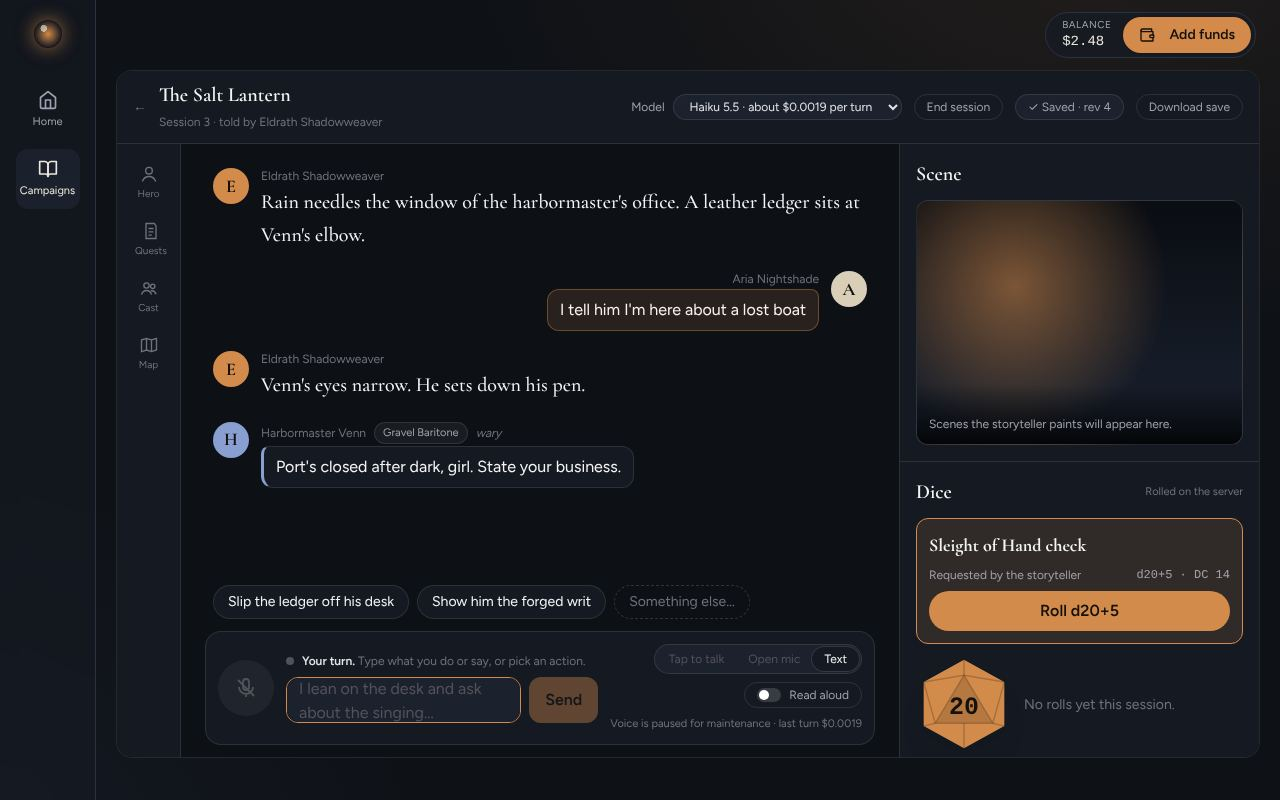
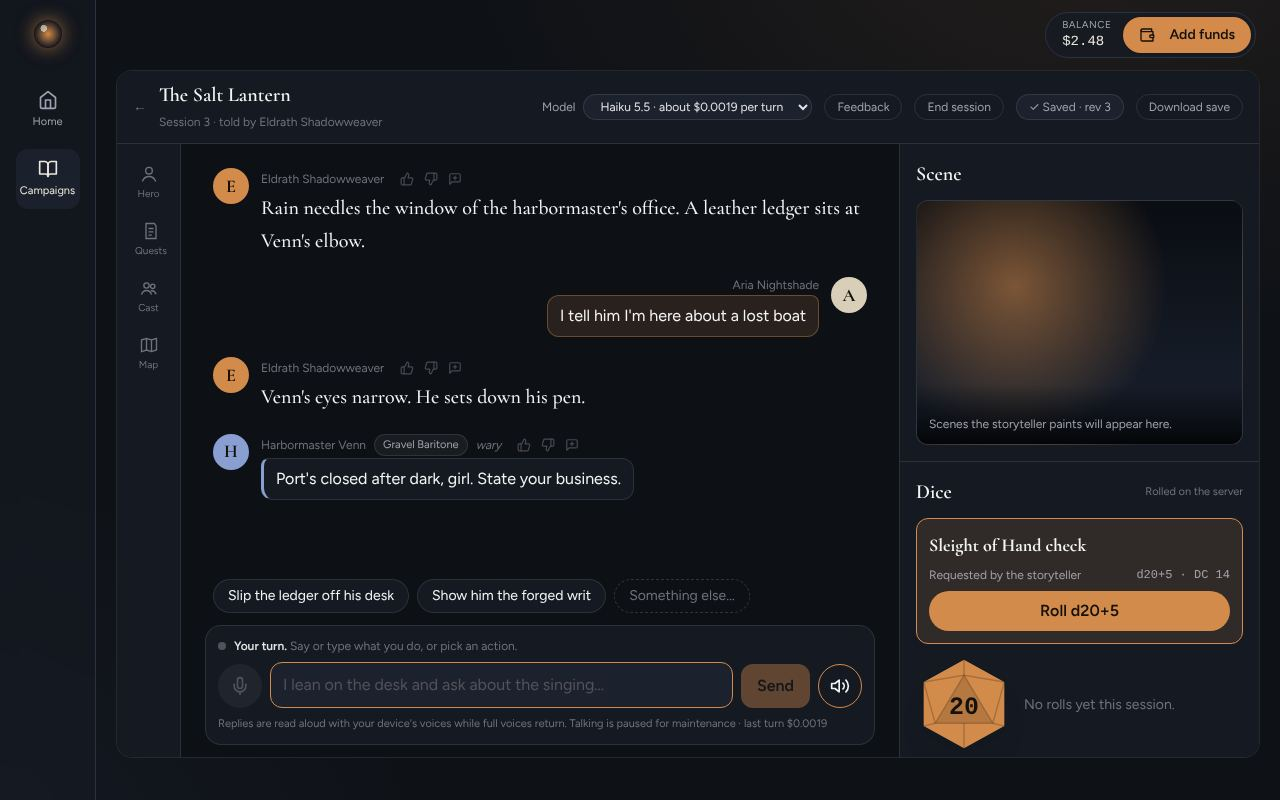
Make play voice and text together, with audio on by default
Play is no longer split into modes:
- The play screen's input is one row: mic (paused for maintenance), text
  box, Send, and a speaker button. The "Tap to talk / Open mic / Text"
  mode picker is gone.
- Replies are always on screen and spoken aloud; audio is on by default
  and the speaker button mutes it (remembered per device).
- Wording updated on the landing page (feature card and FAQ), campaigns
  banner, storyteller picker, welcome tutorial (new play screenshot),
  README and both plans: voice and text together, audio can be muted,
  talking is paused for maintenance.

Claude-Session: https://claude.ai/code/session_01ADN39KUPgbLwj1GbD4BLBY

diff --git a/components/story/StoryTable.tsx b/components/story/StoryTable.tsx
@@ -1,6 +1,6 @@
 "use client";
 
-import { MessageSquarePlus, ThumbsDown, ThumbsUp } from "lucide-react";
+import { MessageSquarePlus, Mic, ThumbsDown, ThumbsUp, Volume2, VolumeX } from "lucide-react";
 import Link from "next/link";
 import { useQueryClient } from "@tanstack/react-query";
 import { useEffect, useRef, useState, type FormEvent } from "react";
@@ -170,88 +170,78 @@ function InputPanel({ state, send, readAloud }: { state: StoryState; send: (i: T
   const speakerName =
     state.speaker === "narrator" ? st.name : state.save!.npcs.find((n) => n.id === state.speaker)?.name ?? state.speaker;
   return (
-    <section aria-label="Your turn" className="mx-3 mb-3 grid grid-cols-[auto_1fr] items-center gap-3 rounded-2xl border border-white/10 bg-[#151a22] p-3 sm:mx-6 md:grid-cols-[auto_1fr_auto]">
-      <button
-        type="button"
-        disabled
-        title="Voice play is paused for maintenance"
-        aria-label="Microphone (paused for maintenance)"
-        className="grid h-14 w-14 place-items-center rounded-full bg-white/5 text-zinc-600"
-      >
-        <svg viewBox="0 0 24 24" className="h-6 w-6" fill="none" stroke="currentColor" strokeWidth="1.8" aria-hidden="true">
-          <rect x="9" y="3" width="6" height="11" rx="3" />
-          <path d="M5 11a7 7 0 0 0 14 0M12 18v3M4 4l16 16" />
-        </svg>
-      </button>
-      <div className="flex min-w-0 flex-col gap-2">
-        <p className="flex items-center gap-2 text-xs text-zinc-500">
-          <span className={`h-2 w-2 rounded-full ${state.speaker ? "bg-[color:var(--accent)] shadow-[0_0_8px_var(--accent)]" : "bg-zinc-600"}`} />
-          {state.speaker ? (
-            <span>
-              <b className="font-semibold text-zinc-200">{speakerName}</b> is speaking
-            </span>
-          ) : state.busy ? (
-            "The storyteller is working on it…"
-          ) : (
-            <span>
-              <b className="font-semibold text-zinc-200">Your turn.</b> Type what you do or say, or pick an action.
-            </span>
-          )}
-        </p>
-        <form onSubmit={submit} className="flex gap-2">
-          <label htmlFor="turn-input" className="sr-only">What do you do?</label>
-          <textarea
-            id="turn-input"
-            rows={1}
-            value={text}
-            maxLength={2000}
-            onChange={(e) => setText(e.target.value)}
-            onKeyDown={(e) => {
-              if (e.key === "Enter" && !e.shiftKey) {
-                e.preventDefault();
-                submit();
-              }
-            }}
-            placeholder="I lean on the desk and ask about the singing…"
-            className="min-h-[44px] flex-1 resize-none rounded-xl border border-white/10 bg-[#1c222d] px-3 py-2.5 text-zinc-100 placeholder:text-zinc-600 focus:border-[color:var(--accent)] focus:outline-none"
-          />
-          <button
-            type="submit"
-            disabled={state.busy || !text.trim()}
-            className="rounded-xl bg-[color:var(--accent)] px-4 font-semibold text-[#14100b] transition hover:brightness-110 disabled:opacity-40"
-          >
-            Send
-          </button>
-        </form>
-      </div>
-      <div className="col-span-2 flex flex-wrap items-center justify-between gap-2 md:col-span-1 md:flex-col md:items-end">
-        <div className="inline-flex rounded-full border border-white/10 bg-[#1c222d] p-0.5 text-xs" role="group" aria-label="Input mode">
-          <button type="button" disabled className="rounded-full px-3 py-1 text-zinc-600" title="Paused for maintenance">Tap to talk</button>
-          <button type="button" disabled className="rounded-full px-3 py-1 text-zinc-600" title="Paused for maintenance">Open mic</button>
-          <button type="button" aria-pressed="true" className="rounded-full bg-[#151a22] px-3 py-1 text-zinc-100 ring-1 ring-white/10">Text</button>
-        </div>
+    <section aria-label="Your turn" className="mx-3 mb-3 flex flex-col gap-2 rounded-2xl border border-white/10 bg-[#151a22] p-3 sm:mx-6">
+      <p className="flex items-center gap-2 text-xs text-zinc-500">
+        <span className={`h-2 w-2 rounded-full ${state.speaker || readAloud.speaking ? "bg-[color:var(--accent)] shadow-[0_0_8px_var(--accent)]" : "bg-zinc-600"}`} />
+        {state.speaker ? (
+          <span>
+            <b className="font-semibold text-zinc-200">{speakerName}</b> is speaking
+          </span>
+        ) : state.busy ? (
+          "The storyteller is working on it…"
+        ) : (
+          <span>
+            <b className="font-semibold text-zinc-200">Your turn.</b> Say or type what you do, or pick an action.
+          </span>
+        )}
+      </p>
+      <form onSubmit={submit} className="flex items-end gap-2">
+        {/* Voice and text work together; talking is paused while the voice service is in maintenance. */}
+        <button
+          type="button"
+          disabled
+          title="Talking to your storyteller is paused for maintenance. Type for now."
+          aria-label="Talk (paused for maintenance)"
+          className="grid h-11 w-11 shrink-0 place-items-center rounded-full bg-white/5 text-zinc-600"
+        >
+          <Mic className="h-5 w-5" aria-hidden="true" />
+        </button>
+        <label htmlFor="turn-input" className="sr-only">What do you do?</label>
+        <textarea
+          id="turn-input"
+          rows={1}
+          value={text}
+          maxLength={2000}
+          onChange={(e) => setText(e.target.value)}
+          onKeyDown={(e) => {
+            if (e.key === "Enter" && !e.shiftKey) {
+              e.preventDefault();
+              submit();
+            }
+          }}
+          placeholder="I lean on the desk and ask about the singing…"
+          className="min-h-[44px] min-w-0 flex-1 resize-none rounded-xl border border-white/10 bg-[#1c222d] px-3 py-2.5 text-zinc-100 placeholder:text-zinc-600 focus:border-[color:var(--accent)] focus:outline-none"
+        />
+        <button
+          type="submit"
+          disabled={state.busy || !text.trim()}
+          className="h-11 shrink-0 rounded-xl bg-[color:var(--accent)] px-4 font-semibold text-[#14100b] transition hover:brightness-110 disabled:opacity-40"
+        >
+          Send
+        </button>
         {readAloud.supported && (
           <button
             type="button"
-            role="switch"
-            aria-checked={readAloud.enabled}
+            aria-pressed={readAloud.enabled}
             onClick={readAloud.toggle}
-            title="Read replies aloud with your device's built-in voices"
-            className={`inline-flex items-center gap-2 rounded-full border px-3 py-1 text-xs transition ${
-              readAloud.enabled ? "border-[color:var(--accent)] text-zinc-100" : "border-white/10 text-zinc-400 hover:text-zinc-200"
+            aria-label={readAloud.enabled ? "Mute the storyteller's voice" : "Unmute the storyteller's voice"}
+            title={readAloud.enabled ? "Audio on: tap to mute" : "Audio off: tap to hear replies"}
+            className={`grid h-11 w-11 shrink-0 place-items-center rounded-full border transition ${
+              readAloud.enabled ? "border-[color:var(--accent)] text-zinc-100" : "border-white/10 text-zinc-500 hover:text-zinc-200"
             }`}
           >
-            <span className={`relative h-3.5 w-6 rounded-full transition ${readAloud.enabled ? "bg-[color:var(--accent)]" : "bg-white/15"}`} aria-hidden="true">
-              <span className={`absolute top-0.5 h-2.5 w-2.5 rounded-full bg-white transition-all ${readAloud.enabled ? "left-3" : "left-0.5"}`} />
-            </span>
-            Read aloud{readAloud.speaking ? " · speaking" : ""}
+            {readAloud.enabled ? <Volume2 className="h-5 w-5" aria-hidden="true" /> : <VolumeX className="h-5 w-5" aria-hidden="true" />}
           </button>
         )}
-        <span className="text-[11px] text-zinc-500">
-          {readAloud.enabled ? "Device voices · full voice play is paused for maintenance" : "Voice is paused for maintenance"} ·{" "}
-          {state.lastTurnCostMicros !== null ? `last turn ${formatUsd(state.lastTurnCostMicros)}` : perTurn(state.save!.modelId)}
-        </span>
-      </div>
+      </form>
+      <p className="text-[11px] text-zinc-500">
+        {!readAloud.supported
+          ? "This browser can't play voices; you'll see every reply as text."
+          : readAloud.enabled
+            ? "Replies are read aloud with your device's voices while full voices return."
+            : "Audio is off. Replies appear as text only."}{" "}
+        Talking is paused for maintenance · {state.lastTurnCostMicros !== null ? `last turn ${formatUsd(state.lastTurnCostMicros)}` : perTurn(state.save!.modelId)}
+      </p>
     </section>
   );
 }

diff --git a/app/(landing)/page.tsx b/app/(landing)/page.tsx
@@ -90,7 +90,7 @@ const FEATURES = [
   { icon: Dices, title: "Fair dice", body: "Rolls happen on our servers, not in your browser or the AI's imagination, and the storyteller narrates from the real result." },
   { icon: BookOpen, title: "Any setting", body: "Dark fantasy, fairy tale, cozy tavern or tactical war story. Rules are compatible with fifth edition, from the open SRD." },
   { icon: Languages, title: "In your language", body: "Play in English, Español, 日本語 and many more. Just start talking in the language you want." },
-  { icon: Mic, title: "Voice play returns soon", body: "Talk to your storyteller and hear every character in their own voice. Voice is paused while we move to our new storyteller; text play works today." },
+  { icon: Mic, title: "Voice and text together", body: "Talk or type, read along or listen. Every reply appears on screen and is spoken aloud, and you can mute audio anytime. Talking to your storyteller and full character voices are returning after maintenance; replies use your device's voices meanwhile." },
 ];
 
 export default function LandingPage() {
@@ -232,7 +232,7 @@ export default function LandingPage() {
               {[
                 ["Is this Dungeons & Dragons?", "Dreampool isn't affiliated with Wizards of the Coast. Its rules are compatible with fifth edition, based on the openly licensed SRD, and it works with any setting you like."],
                 ["Can I play with friends?", "Not yet. Dreampool is built for one player at a time today. Playing together is on our roadmap."],
-                ["Can I talk instead of type?", "Voice play is paused for maintenance while we move to our new storyteller. Text play works now, and voice will return with a distinct voice for every character."],
+                ["Do I talk or type?", "Both. Play is voice and text together: every reply is on screen and read aloud, and you can mute audio whenever you like. Talking to your storyteller is paused for maintenance right now, so type for the moment; replies are read aloud with your device's voices until full character voices return."],
                 ["What happens to my story?", "It's saved as you play: your character, quests, the people you've met and a journal entry for every session. You can download your save file and import it again later."],
                 ["How much does it cost?", `Each turn is charged at what it costs us to run plus ${Math.round(MARKUP * 100)}%. On the default model that's a fraction of a cent. You start with ${formatUsd(SIGNUP_CREDIT_MICROS)} free and add funds from $${MIN_TOPUP_CENTS / 100} when you need more.`],
               ].map(([q, a]) => (

diff --git a/components/story/useReadAloud.ts b/components/story/useReadAloud.ts
@@ -10,8 +10,9 @@ import { UtteranceSegmenter } from "@/lib/voice/segmenter";
 const STORAGE_KEY = "dreampool.readAloud";
 
 /**
- * Reads the storyteller's replies aloud with the device's voices while the
- * real voice pipeline is paused. Feed it streamed table events via `onEvent`;
+ * The audio half of play: reads the storyteller's replies aloud with the
+ * device's voices while the real voice pipeline is paused. On by default;
+ * the player can mute it (remembered per device). Feed it streamed table events via `onEvent`;
  * call `stop()` when the player acts (they've moved on).
  */
 export function useReadAloud() {
@@ -29,12 +30,13 @@ export function useReadAloud() {
     speakerRef.current = new BrowserSpeaker({ lang: "en", onSpeaking: setSpeaking });
     // Some browsers load their voice list asynchronously.
     window.speechSynthesis.getVoices();
+    // Play is voice and text together: audio is on unless the player muted it.
+    let muted = false;
     try {
-      if (localStorage.getItem(STORAGE_KEY) === "on") {
-        enabledRef.current = true;
-        setEnabled(true);
-      }
+      muted = localStorage.getItem(STORAGE_KEY) === "off";
     } catch {}
+    enabledRef.current = !muted;
+    setEnabled(!muted);
     return () => window.speechSynthesis.cancel();
   }, []);
 

diff --git a/app/dashboard/narrator/page.tsx b/app/dashboard/narrator/page.tsx
@@ -47,7 +47,7 @@ export default function CampaignsPage() {
   return (
     <div className={`${displayFont.variable} mx-auto flex max-w-7xl flex-col gap-12 px-5 pb-16`}>
       <div className="rounded-2xl border border-amber-400/20 bg-amber-400/5 px-4 py-3 text-sm text-amber-100/90" role="note">
-        Voice play is paused for maintenance while we move to our new storyteller. You can play every campaign by text in the meantime.
+        Talking to your storyteller is paused for maintenance while we move to our new voices. Type as usual; replies are still read aloud with your device's voices, and you can mute them anytime.
       </div>
       {error && <p role="alert" className="text-rose-300">{error}</p>}
       {campaigns === null ? (

diff --git a/components/story/StorytellerPicker.tsx b/components/story/StorytellerPicker.tsx
@@ -50,7 +50,7 @@ function StorytellerCard({ st, selected, onSelect }: { st: Storyteller; selected
             <p className="w-full border-l-2 border-[color:var(--accent)] pl-3 font-[family-name:var(--font-display)] text-base italic text-zinc-200">
               “{st.sampleLine}”
               <span className="mt-1 block font-sans text-[11px] not-italic text-zinc-500">
-                Narrated in {VOICE_BY_ID.get(st.narrationVoiceId)?.label}. Audio samples return with voice play.
+                Narrated in {VOICE_BY_ID.get(st.narrationVoiceId)?.label}. Audio samples return with full voices.
               </span>
             </p>
           )}

diff --git a/components/intro.tsx b/components/intro.tsx
@@ -33,7 +33,7 @@ const steps: Step[] = [
     },
     {
         title: "Play",
-        description: "Type what you do or say, or tap a suggested action. Roll dice when the storyteller asks. Turn on Read aloud to hear replies in your device's voices. Everything saves as you go, and you start with $2.50 of free credit.",
+        description: "Say or type what you do, or tap a suggested action. Every reply is on screen and read aloud; tap the speaker to mute. Roll dice when the storyteller asks. Everything saves as you go, and you start with $2.50 of free credit.",
         image: "/tutorial/step-3.jpg",
     },
 ]

diff --git a/app/dashboard/agent/page.tsx b/app/dashboard/agent/page.tsx
@@ -1,6 +1,6 @@
 import { redirect } from "next/navigation";
 
-// The old Vapi voice page. Voice play is paused for maintenance; send old
+// The old Vapi voice page. Talking is paused for maintenance; send old
 // links to the campaign library instead.
 export default function LegacyAgentPage() {
   redirect("/dashboard/narrator");

diff --git a/docs/modernization-plan.md b/docs/modernization-plan.md
@@ -203,7 +203,7 @@ SaveFileV1 = {
 - **System:** move to Tailwind v4 design tokens (color, radius, elevation, motion) on top of the shadcn/ui components we already use, and remove the duplicate `tailwind.config.js`. Every screen uses the same tokens, with light mode as an option.
 - **Motion:** framer-motion, kept subtle: panels slide in, the speaker portrait glows while that voice talks, and dice roll physically. Respect `prefers-reduced-motion`.
 - **Presence:** replace the Siri waveform with an audio-reactive "presence" orb or portrait for the storyteller. It reacts to the voice that is speaking and shifts color when a cast NPC talks.
-- **Mobile first:** voice play mostly happens on phones. Side panels become bottom sheets, and controls stay within reach of a thumb.
+- **Mobile first:** play, especially talking, mostly happens on phones. Side panels become bottom sheets, and controls stay within reach of a thumb.
 - **No ads at the table.** If we keep ads, show them only on the library and store pages.
 
 ### 4.3 Information architecture
@@ -224,7 +224,7 @@ The play screen is a multi-panel table. The voice session and the screen stay in
 | Panel / feature | What it does | Driven by |
 |---|---|---|
 | **Story feed** (center) | A live transcript shown as styled prose. Each speaker gets a portrait and color; narration and dialogue look different; the line being spoken is highlighted. Players can scroll back. | Transcript + `<say>` speaker tags |
-| **Input modes** | Open mic, push-to-talk, or **text only**. Text is quiet, accessible, and cheaper: we can skip TTS and read along. Players can switch mid-session. | Client setting; agent accepts text turns |
+| **Voice and text together** | There are no modes: every turn can be spoken or typed, and every reply appears as text and is spoken. Players can mute audio (and later the mic); text is always on. Muting skips TTS, so it's also cheaper. | Client setting; agent accepts text turns |
 | **Suggested actions** | 2–4 tappable choice chips after key beats ("Bribe the guard", "Draw your blade"), plus "something else". | `ui.choices` tool |
 | **Dice** | Animated dice. The roll is done **on the server** (no client-side faking), and the storyteller narrates the result. Players can also roll themselves. | `roll_dice` tool → `ui.dice` |
 | **Character sheet** | Stats, HP and resources (with bars), inventory, abilities. Updates live when tools change them, and changed fields flash briefly. | `state.patch` events from `SaveService` |
@@ -260,7 +260,7 @@ Vapi is removed and voice play is paused. Text play runs on the new stack:
 - Sessions: long sessions are compacted into parts of the same session (summary + exactly where the scene stopped, triggered by the real prompt size past ~60K tokens, run after the turn); one journal recap per session when it ends (End session, 6 h idle, or the scheduled idle-session job). Player input, rolls and interrupted replies are saved; each model call is charged as it completes.
 - Reliability: one turn per campaign at a time via a database lock (works across server instances); holds left by a crashed turn are released automatically after 15 minutes.
 - Phase 2b (design system): one dark theme for the whole signed-in app (shared tokens, Cormorant + Figtree, calm static background), Dreampool brand mark, labeled navigation that also works on phones, a balance pill with Add funds, and a new home page with a Continue card. Landing page and admin pages still use their older styling.
-- Read aloud (device voices) while voice is paused; player feedback on lines, characters, voices and the storyteller, delivered at the next turn without interrupting the current one, with instant voice recasts.
+- Play is voice and text together: replies are read aloud with device voices (on by default, mutable) while talking is paused; player feedback on lines, characters, voices and the storyteller, delivered at the next turn without interrupting the current one, with instant voice recasts.
 - Multiplayer: planned in `docs/multiplayer-plan.md` (recommended after voice; save-file party model first).
 - Not yet: an image provider, ambience audio, voice, Next/React/Clerk upgrade (Phase 6), legacy route cleanup after migration (Phase 5).
 

diff --git a/docs/multiplayer-plan.md b/docs/multiplayer-plan.md
@@ -4,7 +4,7 @@ Status: **Draft for review** · Date: 2026-11-05 · Builds on `docs/modernizatio
 
 ## 1. Goal
 
-Two to five players share one campaign at the same table, in real time, with one storyteller. Each player has their own character. Players can join by invite link, drop in and out between sessions, and play by text or (once voice returns) by voice. Solo play stays exactly as it is.
+Two to five players share one campaign at the same table, in real time, with one storyteller. Each player has their own character. Players can join by invite link, drop in and out between sessions, and play with voice and text together, as in solo play. Solo play stays exactly as it is.
 
 **Out of scope for the first version:** public matchmaking, spectators, more than five players, players controlling the same character, and asynchronous "play-by-post" campaigns.
 
@@ -92,7 +92,7 @@ Recommendation: **host pays** for v1. If someone else runs out of funds nothing 
 - Each player's microphone is its own track; speech-to-text runs per track, so lines arrive already attributed.
 - Gathering uses voice activity: the window closes when everyone has been quiet briefly.
 - Barge-in: any player can interrupt the storyteller.
-- Text and voice players can share a table.
+- Every seat is voice and text together; players who mute audio or their mic still read and type along.
 
 ## 4. UI
 

diff --git a/README.md b/README.md
@@ -4,7 +4,7 @@
 
 DyD (Dreampool) is a solo tabletop roleplaying app. The player picks a storyteller, and an AI storyteller runs the game: it narrates, voices the characters, rolls dice and keeps a structured save file of the character, quests, characters met and the world.
 
-> **Status:** Vapi has been removed. Voice play is paused for maintenance while the new voice pipeline is built (see `docs/modernization-plan.md`). Every campaign can be played by text in the meantime.
+> **Status:** Vapi has been removed. Play is always voice and text together (audio can be muted). Talking to the storyteller is paused for maintenance while the new voice pipeline is built (see `docs/modernization-plan.md`); replies are read aloud with the device's voices meanwhile, and every campaign can be played by typing in the meantime.
 
 Access the platform at: **[https://www.dreampool.ai/](https://www.dreampool.ai/)**
 
